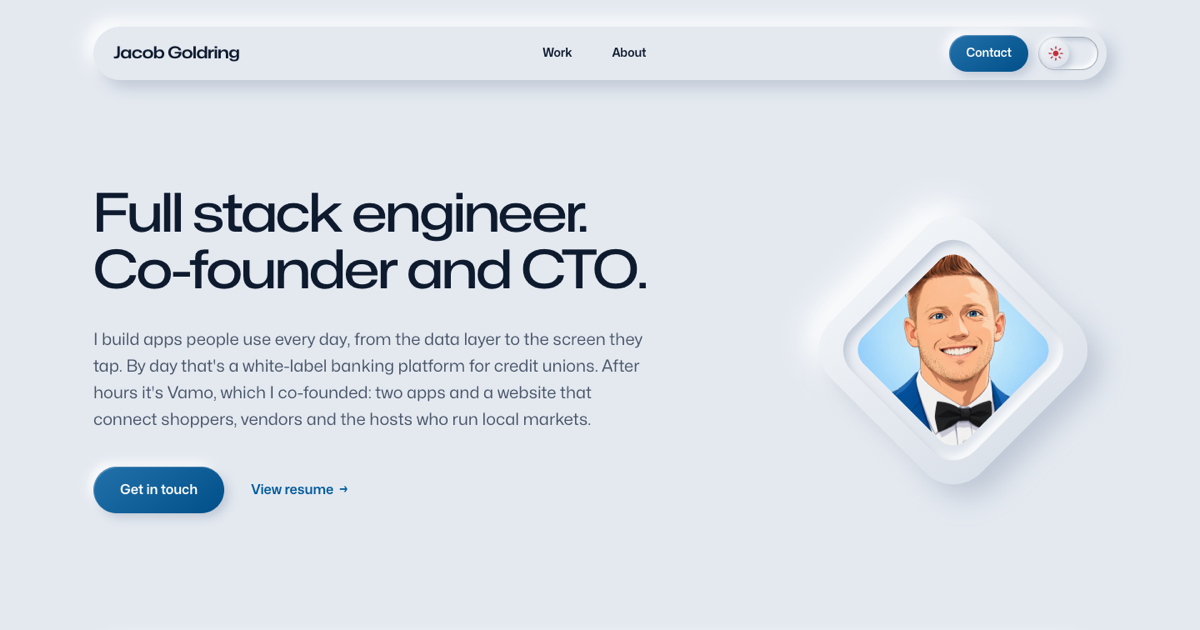
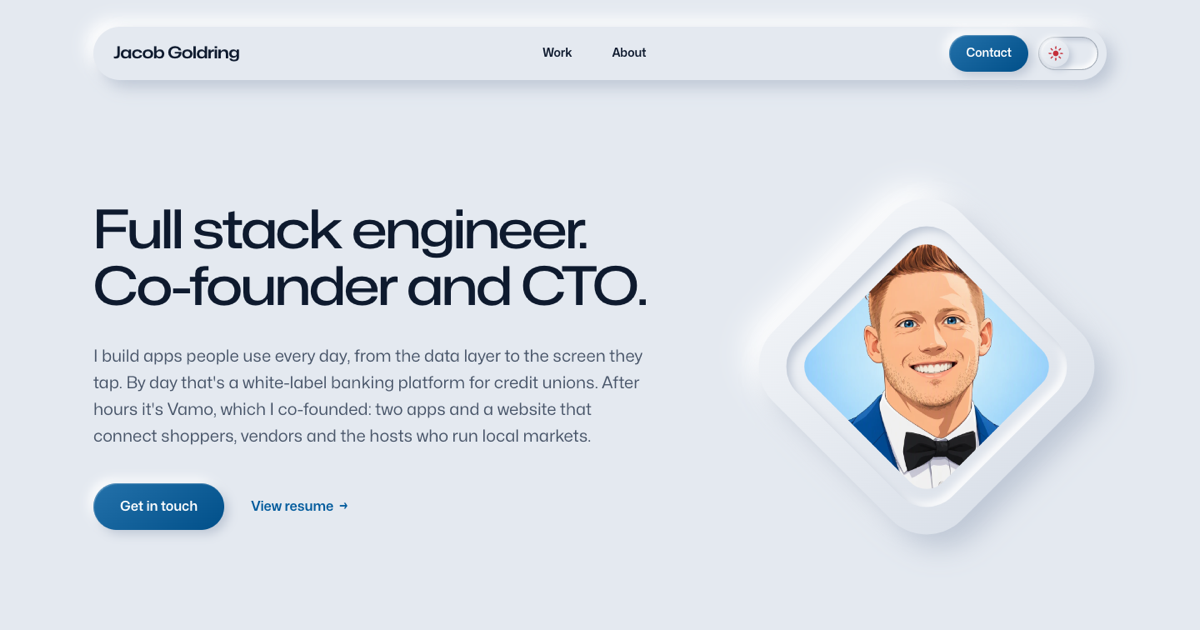
fix: enlarge the hero diamond on wide screens

Changed region(s): [[0.0617, 0.5127, 0.555, 0.8444], [0.0617, 0.3016, 0.555, 0.4825], [0.6475, 0.3619, 0.925, 0.8746]]

diff --git a/src/app/page.tsx b/src/app/page.tsx
@@ -102,14 +102,14 @@ const stack = [
 function Portrait() {
   return (
     <Tilt className="mx-auto hidden p-14 lg:block">
-      <div className="flex h-64 w-64 rotate-45 items-center justify-center rounded-[3rem] bg-surface bg-convex-diamond shadow-neu-diamond">
-        <div className="rounded-[2.25rem] p-4 shadow-neu-diamond-inset">
-          <div className="h-44 w-44 overflow-hidden rounded-[1.5rem]">
+      <div className="flex h-64 w-64 rotate-45 items-center justify-center rounded-[3rem] bg-surface bg-convex-diamond shadow-neu-diamond xl:h-80 xl:w-80 xl:rounded-[3.75rem]">
+        <div className="rounded-[2.25rem] p-4 shadow-neu-diamond-inset xl:rounded-[2.75rem] xl:p-5">
+          <div className="h-44 w-44 overflow-hidden rounded-[1.5rem] xl:h-56 xl:w-56 xl:rounded-[1.75rem]">
             <Image
               src={imageJacobIllustrated}
               alt="Jacob Goldring"
               className="h-full w-full object-cover [transform:rotate(-45deg)_scale(1.45)]"
-              sizes="16rem"
+              sizes="20rem"
               priority
             />
           </div>
